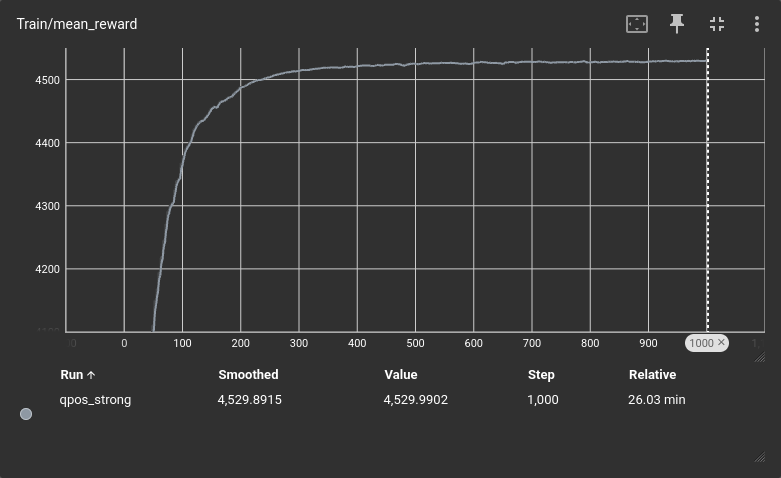
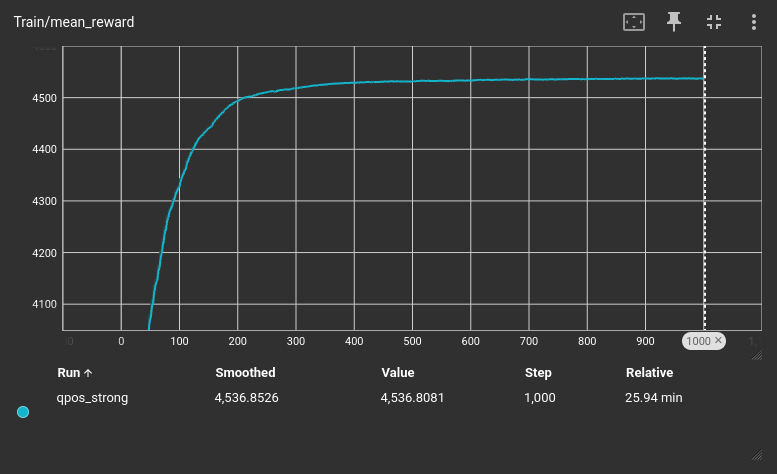
refactor(att2): results of rerun

diff --git a/att2/README.md b/att2/README.md
@@ -17,8 +17,8 @@
 | ----------------- | ----------------------------------------------------------------------------------- | -------------------------------- | --------- | ----------------- | ------------------------------------------------------------------- |
 | baseline          | `EXP_NAME = "baseline"`                                                             | Плато на высоком уровне, 1490.24 | 9         | 1887 с (31.5 мин) | Дотягивается (1 раз плохо),<br>поднимает,<br>успешно несет к цели   |
 | num_envs_2048     | `EXP_NAME = "num_envs_2048"`, `NUM_ENVS=2048`                                       | Плато на высоком уровне, 1397.28 | 10        | 1212 с (20.2 мин) | Дотягивается (2 раза плохо),<br>поднимает,<br>успешно несет к цели  |
-| box_target_strong | `EXP_NAME = "box_target_strong"`, `env_cfg.reward_config.scales.box_target = 40.0`  | Плато на низком уровне, 688.68   | 0         | 1826 c (30.4 мин) | Дотягивается,<br>не поднимает,<br>не несет к цели                   |
-| qpos_strong       | `EXP_NAME = "qpos_strong"`, `env_cfg.reward_config.scales.robot_target_qpos = 30.0` | Плато на высоком уровне, 106.76  | 0         | 1578 c (26.3 мин) | Не дотягивается (не двигается),<br>не поднимает,<br>не несет к цели |
+| box_target_strong | `EXP_NAME = "box_target_strong"`, `env_cfg.reward_config.scales.box_target = 40.0`  | Плато на высоком уровне, 1437.92 | 10        | 1826 c (30.4 мин) | Дотягивается,<br>поднимает,<br>успешно несет к цели                 |
+| qpos_strong       | `EXP_NAME = "qpos_strong"`, `env_cfg.reward_config.scales.robot_target_qpos = 30.0` | Плато на высоком уровне, 106.83  | 0         | 1578 c (26.3 мин) | Не дотягивается (не двигается),<br>не поднимает,<br>не несет к цели |
 
 ## Самостоятельный эксперимент
 
